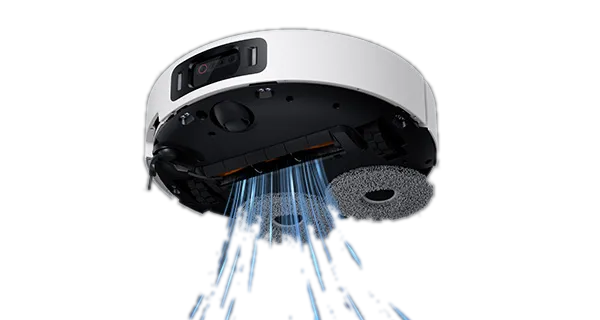
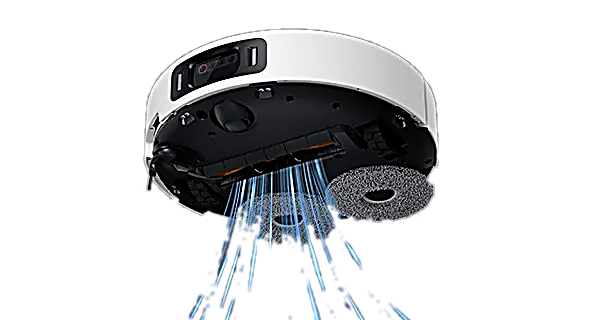
Enlarge and sharpen the suction section photo
Claude-Session: https://claude.ai/code/session_01AxGLdtQiQaGTvNS2KaPyPK

diff --git a/assets/css/styles.css b/assets/css/styles.css
@@ -289,7 +289,7 @@ button { font: inherit; color: inherit; background: none; border: 0; }
   animation: floatSlow 7s ease-in-out infinite;
 }
 .section-photo.side { width: min(280px, 70%); }
-.section-photo.mist { width: min(220px, 60%); }
+.section-photo.mist { width: min(400px, 90%); }
 
 .detail-badge {
   position: absolute; top: -10%; right: -10%; width: 136px;
